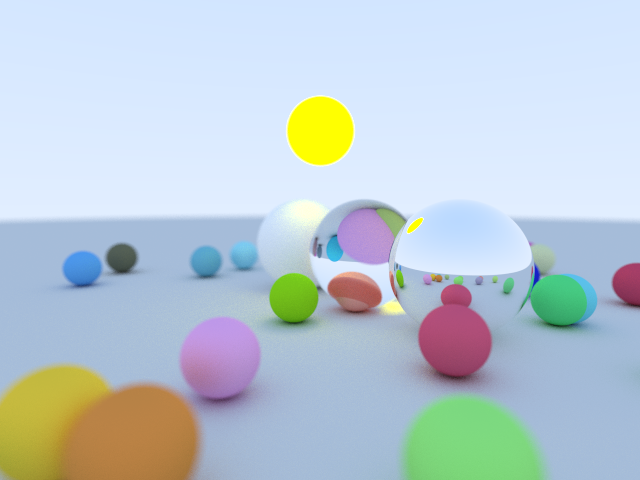
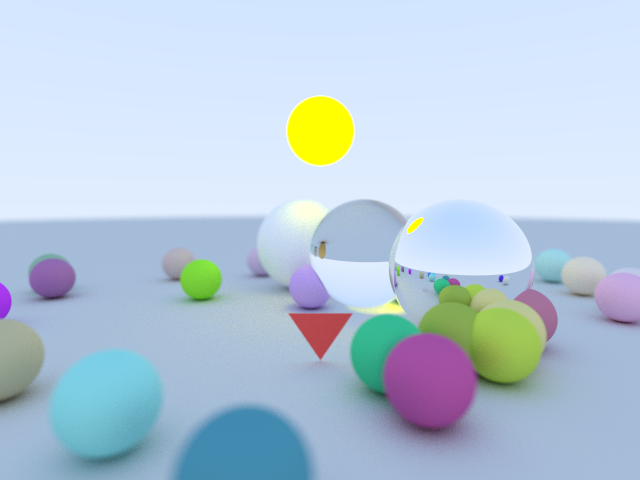
scenes from seed

diff --git a/src/main.rs b/src/main.rs
@@ -1,5 +1,7 @@
 use itertools::Itertools;
 use rayon::prelude::*;
+use rand::Rng;
+
 use silver::{camera::Camera, shapes::Triangle};
 use silver::materials::{Basic as BasicMaterial, *};
 use silver::object::Object;
@@ -114,6 +116,7 @@ fn make_scene_1() -> MyScene {
 }
 
 fn make_scene_2() -> MyScene {
+    let mut rng: rand::rngs::StdRng = rand::SeedableRng::seed_from_u64(13);
     let mut objects = vec![
         Object::new(
             BasicShape::Sphere(Sphere::new(Vec3(0.0, 1000.0, -2.0), 1000.0)),
@@ -144,13 +147,13 @@ fn make_scene_2() -> MyScene {
         objects.push(Object::new(
             BasicShape::Sphere(Sphere::new(
                 Vec3(
-                    rand::random::<f64>() * 6.0 - 3.0,
+                    rng.gen_range(-3.0..3.0),
                     -0.2,
-                    rand::random::<f64>() * 6.0 - 4.0,
+                    rng.gen_range(-4.0..2.0),
                 ),
                 0.2,
             )),
-            BasicMaterial::Lambertian(Lambertian::new(Vec3::random())),
+            BasicMaterial::Lambertian(Lambertian::new(Vec3::random(&mut rng))),
         ));
     }
     Scene { objects: objects }

diff --git a/src/vec3.rs b/src/vec3.rs
@@ -1,4 +1,3 @@
-use rand::Rng;
 use std::f64;
 use std::ops::{Add, Div, Mul, Neg, Sub};
 
@@ -119,16 +118,15 @@ impl Vec3 {
         Vec3(self.x() * rhs.x(), self.y() * rhs.y(), self.z() * rhs.z())
     }
 
-    pub fn random() -> Vec3 {
+    pub fn random(rng: &mut impl rand::Rng) -> Vec3 {
         Vec3(
-            rand::random::<f64>(),
-            rand::random::<f64>(),
-            rand::random::<f64>(),
+            rng.gen_range(0.0..1.0),
+            rng.gen_range(0.0..1.0),
+            rng.gen_range(0.0..1.0),
         )
     }
 
-    pub fn random_in_unit_sphere() -> Vec3 {
-        let mut rng = rand::thread_rng();
+    pub fn random_in_unit_sphere(rng: &mut impl rand::Rng) -> Vec3 {
         loop {
             let v = Vec3(
                 rng.gen::<f64>() * 2.0 - 1.0,

diff --git a/src/materials/metal.rs b/src/materials/metal.rs
@@ -17,7 +17,7 @@ impl Metal {
 impl Material for Metal {
     fn ray(&self, ray: &Ray, location: &Vec3, normal: &Vec3) -> Ray {
         let b: Vec3 = -(ray.direction.dot(normal)) * *normal;
-        let f: Vec3 = self.fuzz * Vec3::random_in_unit_sphere();
+        let f: Vec3 = self.fuzz * Vec3::random_in_unit_sphere(&mut rand::thread_rng());
         Ray::new(*location, ray.direction + 2.0 * b + f)
     }
 

diff --git a/src/materials/lambertian.rs b/src/materials/lambertian.rs
@@ -15,7 +15,7 @@ impl Lambertian {
 
 impl Material for Lambertian {
     fn ray(&self, _ray: &Ray, location: &Vec3, normal: &Vec3) -> Ray {
-        Ray::new(*location, *normal + Vec3::random_in_unit_sphere())
+        Ray::new(*location, *normal + Vec3::random_in_unit_sphere(&mut rand::thread_rng()))
     }
 
     fn color(&self, color: &Vec3) -> Vec3 {
